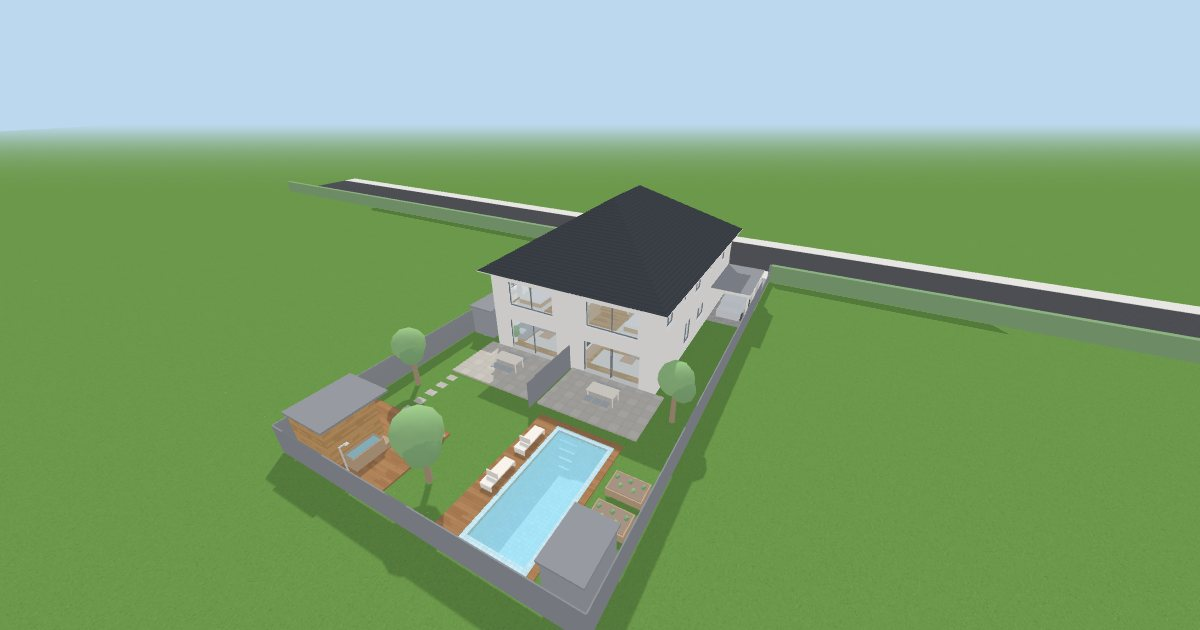
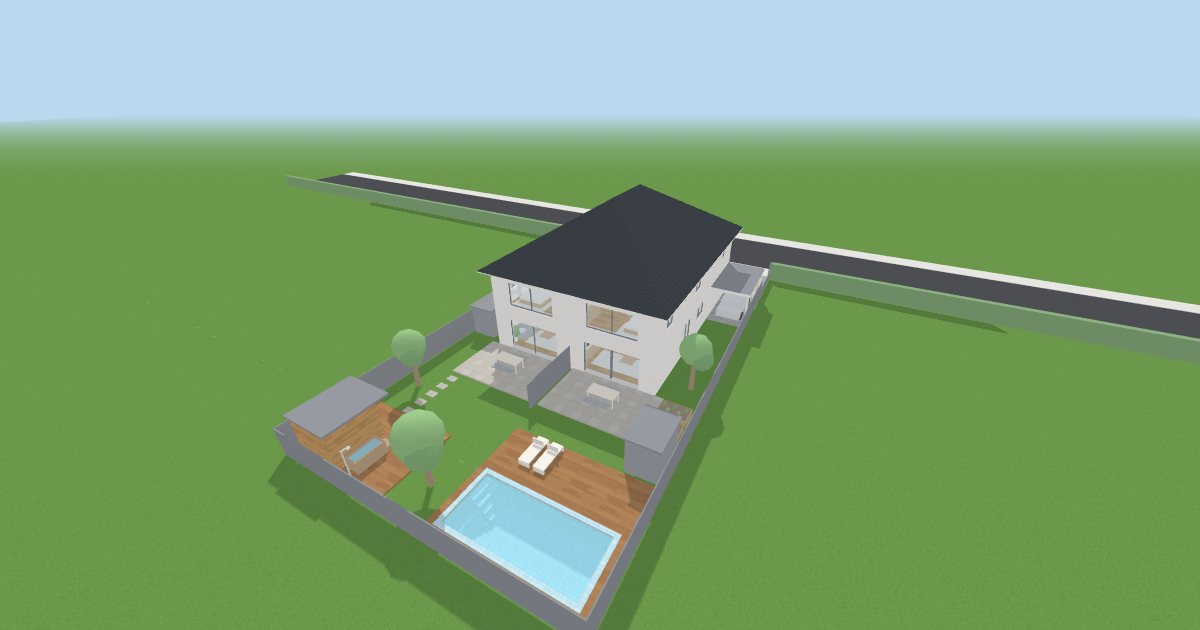
Doppelhaus: place the pool crosswise at the end of the right garden
Shed and raised beds move in front of the pool deck along the outer boundary.

Claude-Session: https://claude.ai/code/session_01YapRHFFWUAtcZZK3rFA6U3

diff --git a/doppelhaus/index.html b/doppelhaus/index.html
@@ -212,7 +212,7 @@ body.touch.walking.looked #lookhint{display:none}
             <li><b>Seitlich:</b> Carport direkt am Haus. Bei Haus 1 steht dahinter ein Geräteschuppen.</li>
             <li><b>Hinten:</b> Terrasse an jedem Haus, dazwischen ein Sichtschutz. Dahinter ist der Garten offen, damit man von der Sauna zum Pool kommt.</li>
             <li><b>Linke Seite:</b> Holzdeck am Gartenende mit Sauna, Cold Plunge, Gartendusche und zwei Liegen. Davor Rasen.</li>
-            <li><b>Rechte Seite:</b> Pool 3 × 7 m längs, 1 m von der hinteren Grundgrenze, mit Holzdeck und zwei Liegen. Daneben an der Außengrenze der zweite Geräteschuppen und zwei Hochbeete.</li>
+            <li><b>Rechte Seite:</b> Pool 7 × 3 m quer am Gartenende, 1 m von den Grundgrenzen, mit Holzdeck und zwei Liegen davor. An der Außengrenze stehen davor der zweite Geräteschuppen und zwei Hochbeete.</li>
           </ul>
         </div>
       </div>
@@ -258,7 +258,7 @@ body.touch.walking.looked #lookhint{display:none}
             <li>Walmdach mit 32°. Der Dachboden ist über eine Bodentreppe im Flur erreichbar.</li>
             <li>Trennwand zweischalig mit durchgehender Fuge bis ins Fundament.</li>
             <li>Carport 5,5 m lang, höchstens 3 m hoch, Steher an der Grundgrenze. Haus 2 bekommt ein eigenes Tor rechts.</li>
-            <li>Pool: 3 × 7 m, 1,5 m tief, rund 32 m³, mit Einstiegsstufen an der Hausseite. Die Pooltechnik kommt in den Geräteschuppen daneben.</li>
+            <li>Pool: 7 × 3 m quer, 1,5 m tief, rund 32 m³, mit Einstiegsstufen an der Seite zur Gartenmitte. Die Pooltechnik kommt in den Geräteschuppen davor.</li>
             <li>Sauna und Pool: Leerrohre für Starkstrom und Wasser vom Technikraum nach hinten gleich mitverlegen.</li>
           </ul>
         </div>
@@ -577,10 +577,10 @@ function makeModel(key) {
     deck1: [0.4, R - 5.0, 6.6, R - 0.3], sauna: [0.7, R - 3.3, 3.5, R - 0.5], plunge: [3.8, R - 2.6, 4.6, R - 0.9],
     loungers1: [[5.0, R - 4.7, 5.65, R - 2.9], [5.85, R - 4.7, 6.5, R - 2.9]],
     // Garten 2 (rechts), Weltkoordinaten x
-    pool: [11.6, R - 8.0, 14.6, R - 1.0], poolDepth: 1.5, deck2: [10.0, R - 8.6, 15.2, R - 0.4],
-    loungers2: [[10.45, R - 7.4, 11.1, R - 5.6], [10.45, R - 4.9, 11.1, R - 3.1]],
-    shed2: [15.8, R - 3.0, 17.6, R - 0.5], beds2: [[15.7, R - 5.0, 17.5, R - 3.8], [15.7, R - 6.8, 17.5, R - 5.6]],
-    trees: [{ x: 8.0, z: R - 2.3, r: 1.2 }, { x: 1.5, z: r2(HR + 6.0), r: 1.0 }, { x: 16.7, z: r2(HR + 1.6), r: 1.0 }],
+    pool: [10.0, R - 4.0, 17.0, R - 1.0], poolDepth: 1.5, deck2: [9.4, R - 7.2, 17.6, R - 0.4],
+    loungers2: [[11.0, R - 7.0, 11.65, R - 5.2], [11.9, R - 7.0, 12.55, R - 5.2]],
+    shed2: [15.8, R - 9.9, 17.6, R - 7.4], beds2: [[15.7, R - 11.4, 17.5, R - 10.2], [15.7, R - 12.9, 17.5, R - 11.7]],
+    trees: [{ x: 8.0, z: R - 2.3, r: 1.2 }, { x: 1.5, z: r2(HR + 6.0), r: 1.0 }, { x: 16.7, z: r2(HR - 1.8), r: 1.0 }],
     divEnd: r2(HR + 4.5),
     stones: []
   };
@@ -655,8 +655,8 @@ const Plan = (() => {
     o += `<line class="lead" x1="${c.px(s.plunge[2])}" y1="${c.pz(mid(s.plunge)[1] + 0.3)}" x2="${c.px(5.15)}" y2="${c.pz(s.plunge[3] - 0.5)}"/>`;
     for (const l of s.loungers1) o += R4('furn', l);
     o += c.text('lbl-xs', 5.6, M.HR + 5.4, 'Rasen');
-    // Garten 2: Pool laengs, Hochbeete, Geraeteschuppen
-    o += R4('deck', s.deck2) + R4('water', s.pool, 'rx="3"') + c.text('lbl-s', mid(s.pool)[0] - 0.25, mid(s.pool)[1], 'Pool', -90) + c.text('lbl-xs', mid(s.pool)[0] + 0.55, mid(s.pool)[1], '3,0 × 7,0 m', -90);
+    // Garten 2: Pool quer, Hochbeete, Geraeteschuppen
+    o += R4('deck', s.deck2) + R4('water', s.pool, 'rx="3"') + c.text2('lbl-s', 'lbl-xs', mid(s.pool)[0], mid(s.pool)[1], 'Pool', '7,0 × 3,0 m');
     for (const l of s.loungers2) o += R4('furn', l);
     o += R4('shed', s.shed2) + c.text('lbl-xs', mid(s.shed2)[0] + 0.2, mid(s.shed2)[1], 'Geräte', -90);
     for (const bd of s.beds2) o += R4('bed', bd);
@@ -821,12 +821,12 @@ const Plan = (() => {
       ['Grundstück', '18,0 × 34,5 m', '621 m²'],
       ['Häuser (2 ×)', `${de(M.W)} × ${de(M.D)} m`, `${de(house, 0)} m²`],
       ['Carports (2 ×)', `${de(M.S)} × ${de(CP_D)} m`, `${de(cp, 0)} m²`],
-      ['Geräteschuppen (2 ×)', '1,8 × 2,5 m, einer am Pool', `${de(sh, 0)} m²`],
+      ['Geräteschuppen (2 ×)', '1,8 × 2,5 m, einer vor dem Pooldeck', `${de(sh, 0)} m²`],
       ['Saunahaus', '2,8 × 2,8 m', `${de(sa, 0)} m²`],
       ['Überbaut gesamt', `${de(tot / 621 * 100, 0)} % des Grundstücks`, `${de(tot, 0)} m²`],
       ['Garten je Haus', `9,0 × ${de(PLOT_D - M.HR)} m`, `${de(9 * (PLOT_D - M.HR), 0)} m²`],
-      ['Pool (Garten 2)', `3,0 × 7,0 m längs, ${de(s.poolDepth)} m tief`, `21 m² · ${de(21 * s.poolDepth, 0)} m³`],
-      ['Pooldeck', '5,2 × 8,2 m rund um den Pool', `${de(A(s.deck2) - A(s.pool), 0)} m²`],
+      ['Pool (Garten 2)', `7,0 × 3,0 m quer, ${de(s.poolDepth)} m tief`, `21 m² · ${de(21 * s.poolDepth, 0)} m³`],
+      ['Pooldeck', '8,2 × 6,8 m rund um den Pool', `${de(A(s.deck2) - A(s.pool), 0)} m²`],
       ['Wellness-Deck (Garten 1)', '6,2 × 4,7 m mit Sauna und Cold Plunge', `${de(A(s.deck1), 0)} m²`],
       ['Cold Plunge', '0,8 × 1,7 m', 'neben der Sauna'],
       ['Rasen in Garten 1', 'zwischen Terrasse und Wellness-Deck', `≈ ${de(9 * (PLOT_D - M.HR) - A(s.terrace) - A(s.deck1), 0)} m²`]
@@ -1162,9 +1162,11 @@ const Walk = (() => {
     tub(s.plunge, 0.10, 0.88, 0.07, 'tubWood', 'water', 0.78);
     B('deckDark', [s.plunge[0] + 0.05, s.plunge[1] - 0.42, s.plunge[2] - 0.05, s.plunge[1] - 0.02], 0.10, 0.36);
     { const sx = s.plunge[2] + 0.2, sz = PLOT_D - 0.5; B('steel', [sx, sz, sx + 0.06, sz + 0.06], 0.10, 2.25); B('steel', [sx, sz - 0.3, sx + 0.06, sz], 2.19, 2.25); B('steel', [sx - 0.06, sz - 0.38, sx + 0.12, sz - 0.2], 2.13, 2.19); }
-    const lounger = l => { B('lounger', l, 0.36, 0.44); B('lounger', [l[0], l[1], l[2], l[1] + 0.06], 0.10, 0.36); B('lounger', [l[0], l[3] - 0.06, l[2], l[3]], 0.10, 0.36); B('lounger', [l[0], l[3] - 0.55, l[2], l[3] - 0.5], 0.44, 0.8); B('lounger', l, 0.10, 0.44, true, true); };
-    s.loungers1.forEach(lounger);
-    // ---- Garten 2: Pool laengs, Hochbeete, Geraeteschuppen ----
+    const lounger = (l, headFront) => { B('lounger', l, 0.36, 0.44); B('lounger', [l[0], l[1], l[2], l[1] + 0.06], 0.10, 0.36); B('lounger', [l[0], l[3] - 0.06, l[2], l[3]], 0.10, 0.36);
+      if (headFront) B('lounger', [l[0], l[1] + 0.5, l[2], l[1] + 0.55], 0.44, 0.8); else B('lounger', [l[0], l[3] - 0.55, l[2], l[3] - 0.5], 0.44, 0.8);
+      B('lounger', l, 0.10, 0.9, true, true); };
+    s.loungers1.forEach(l => lounger(l, false));
+    // ---- Garten 2: Pool quer am Gartenende, Hochbeete, Geraeteschuppen ----
     { const [a0, b0, a1, b1] = s.pool, d = s.poolDepth, w = 0.25, dk = s.deck2;
       B('deck', [dk[0], dk[1], dk[2], b0 - w], 0, 0.10); B('deck', [dk[0], b1 + w, dk[2], dk[3]], 0, 0.10);
       B('deck', [dk[0], b0 - w, a0 - w, b1 + w], 0, 0.10); B('deck', [a1 + w, b0 - w, dk[2], b1 + w], 0, 0.10);
@@ -1172,11 +1174,11 @@ const Walk = (() => {
       B('poolTile', [a0 - w, b0 - w, a1 + w, b0], -d - 0.2, 0.11); B('poolTile', [a0 - w, b1, a1 + w, b1 + w], -d - 0.2, 0.11);
       B('poolTile', [a0 - w, b0, a0, b1], -d - 0.2, 0.11); B('poolTile', [a1, b0, a1 + w, b1], -d - 0.2, 0.11);
       B('poolTile', [a0, b0, a1, b1], -d - 0.2, -d);
-      for (let i = 0; i < 4; i++) B('poolTile', [a0, b0 + i * 0.3, a0 + 1.3, b0 + (i + 1) * 0.3], -d, -0.25 - i * 0.3);
+      for (let i = 0; i < 4; i++) B('poolTile', [a0 + i * 0.3, b0, a0 + (i + 1) * 0.3, b0 + 1.3], -d, -0.25 - i * 0.3);
       B('waterPool', [a0, b0, a1, b1], -d, -0.02);
       B('poolTile', [a0, b0, a1, b1], -2, 1.3, true, true);
     }
-    s.loungers2.forEach(lounger);
+    s.loungers2.forEach(l => lounger(l, true));
     { const sh = s.shed2; B('shed', sh, 0, 2.2, true); B('roofFlat', [sh[0] - 0.1, sh[1] - 0.1, sh[2] + 0.1, sh[3] + 0.1], 2.2, 2.3); B('doorInt', [sh[0] - 0.02, sh[1] + 0.7, sh[0], sh[1] + 1.6], 0.05, 2.0); }
     for (const q of s.beds2) { B('tubWood', q, 0, 0.42, true); B('soil', [q[0] + 0.06, q[1] + 0.06, q[2] - 0.06, q[3] - 0.06], 0.42, 0.45);
       for (let i = 0; i < 5; i++) mesh(new THREE.IcosahedronGeometry(0.13, 0), i % 2 ? mats.leaf : mats.leaf2, 'base', q[0] + 0.25 + i * 0.33, 0.52, (q[1] + q[3]) / 2 + (i % 2 ? 0.2 : -0.2), false); }
@@ -1271,7 +1273,7 @@ const Walk = (() => {
     const inw = a => P.x >= a[0] && P.x <= a[2] && z >= a[1] && z <= a[3];
     if (inw(s.sauna)) return 'Sauna';
     if (inw(s.deck1)) return 'Wellness-Deck · Sauna und Cold Plunge';
-    if (inw(s.deck2)) return 'Pooldeck · Pool 3 × 7 m';
+    if (inw(s.deck2)) return 'Pooldeck · Pool 7 × 3 m';
     return z < M.HR ? `Seitenstreifen Haus ${h}` : `Garten Haus ${h}`;
   }
   function stepWalk(dt) {
@@ -1427,7 +1429,7 @@ const Walk = (() => {
       office: () => [...loc(M.uR + M.tI + 0.55, M.vBu - 0.45), M.F1, hh === 1 ? -0.45 : 0.45],
       bedroom: () => [...loc(M.uR + M.tI + 0.55, M.vSch + M.tI + 0.5), M.F1, Math.PI + (hh === 1 ? -0.5 : 0.5)],
       garden: () => [X(hh, 6.4), M.HR + 4.8, 0, Math.PI],
-      pool: () => [9.5, PLOT_D - 9.0, 0, Math.PI + 0.5],
+      pool: () => [10.2, PLOT_D - 8.6, 0, Math.PI + 0.42],
       sauna: () => [4.6, PLOT_D - 6.6, 0, Math.PI - 0.5]
     }[n] || (() => [7.6, -3.4, 0, Math.PI]);
     const q = T(); P.x = q[0]; P.z = q[1]; P.y = q[2]; P.yaw = q[3]; P.pitch = -0.03;
